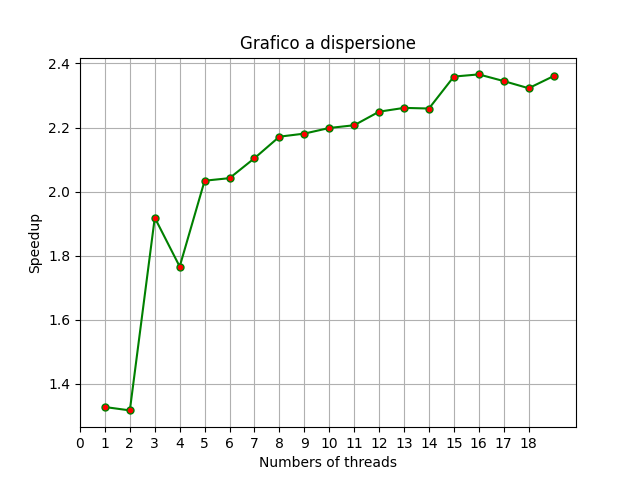
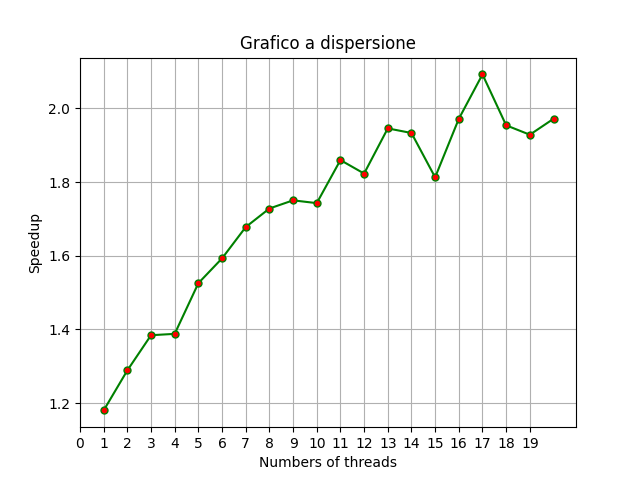
countingTriangle #10

diff --git a/countingTriangles.cpp b/countingTriangles.cpp
@@ -43,8 +43,9 @@ vector<pair<int, double>> countTrianglesParallel(int** adjacency_matrix, int num
 
         auto start = chrono::high_resolution_clock::now();
 
-        #pragma omp parallel for reduction(+:num_triangles) num_threads(num_threads)
+        #pragma omp parallel reduction(+:num_triangles) num_threads(num_threads)
         for (int i = 0; i < num_nodes; i++) {
+            #pragma omp for schedule(static) nowait
             for (int j = i+1; j < num_nodes; j++) {
                 if (adjacency_matrix[i][j] == 1) {
                     for (int k = j+1; k < num_nodes; k++) {

diff --git a/plot.py b/plot.py
@@ -6,6 +6,8 @@ with open('./outputResults/results.txt', 'r') as file:
     # Leggi i dati dal file e salva i valori in due liste separate
     x = []
     y = []
+    
+    file.readline()
     for line in file:
         data = line.split()
         x.append(int(data[0]))
@@ -18,8 +20,7 @@ plt.plot(x, y, color = 'green',
          linestyle = 'solid', marker = 'o',
          markerfacecolor = 'red', markersize = 5)
 
-plt.xticks(range(0, np.size(x)))
-
+plt.xticks(range(0,np.size(x)))  
 # Aggiungi una griglia al grafico
 plt.grid()
 

diff --git a/readFile.cpp b/readFile.cpp
@@ -116,7 +116,7 @@ void createResults(vector<pair<int, double>> data){
 
     // Creiamo il file di testo nella directory di output
     ofstream outfile(output_dir / "results.txt"); // apriamo il file in scrittura
-    outfile <<"Numbers of threads" << "   " << "speedup" << endl;
+    outfile <<"Numbers of threads" << "   " << "Speedup" << endl;
     for (const auto& p : data) {
         outfile << p.first << " " << p.second << endl;
     }
